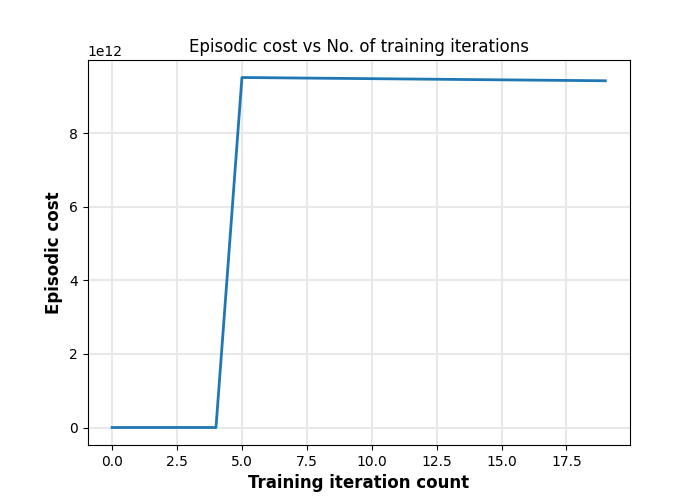
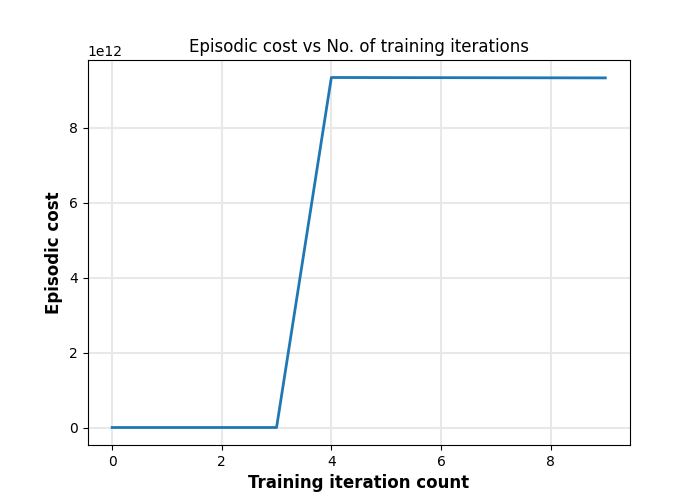
tried few things

diff --git a/Iterative_LQR (iLQR)/VanderPolOscillator/run_vdp_ilqr.py b/Iterative_LQR (iLQR)/VanderPolOscillator/run_vdp_ilqr.py
@@ -38,6 +38,7 @@ class RunVdp(iLQR,LTV_SysID,SimulateVDP):
 
 
 if __name__=="__main__":
+
     cwd = os.getcwd()
     path_to_vdp = Path(cwd)/"Iterative_LQR (iLQR)/VanderPolOscillator"
     MODEL = path_to_vdp/"models/None.xml"
@@ -57,10 +58,11 @@ if __name__=="__main__":
     print('Goal phase : \n', final_state)
 	
     # No. of ILQR iterations to run
-    n_iterations = 20
+    n_iterations = 10
 
     model = RunVdp(mu, state_dimension, control_dimension, dt, horizon, init_state, final_state, Q, Q_final, R, alpha,nominal_init_stddev)
     model.iterate_ilqr(n_iterations)
+
     model.plot_episodic_cost_history(path_to_training_cost_fig)
     model.save_policy(path_to_policy_file)
     model.save_cost(path_to_cost_file)
